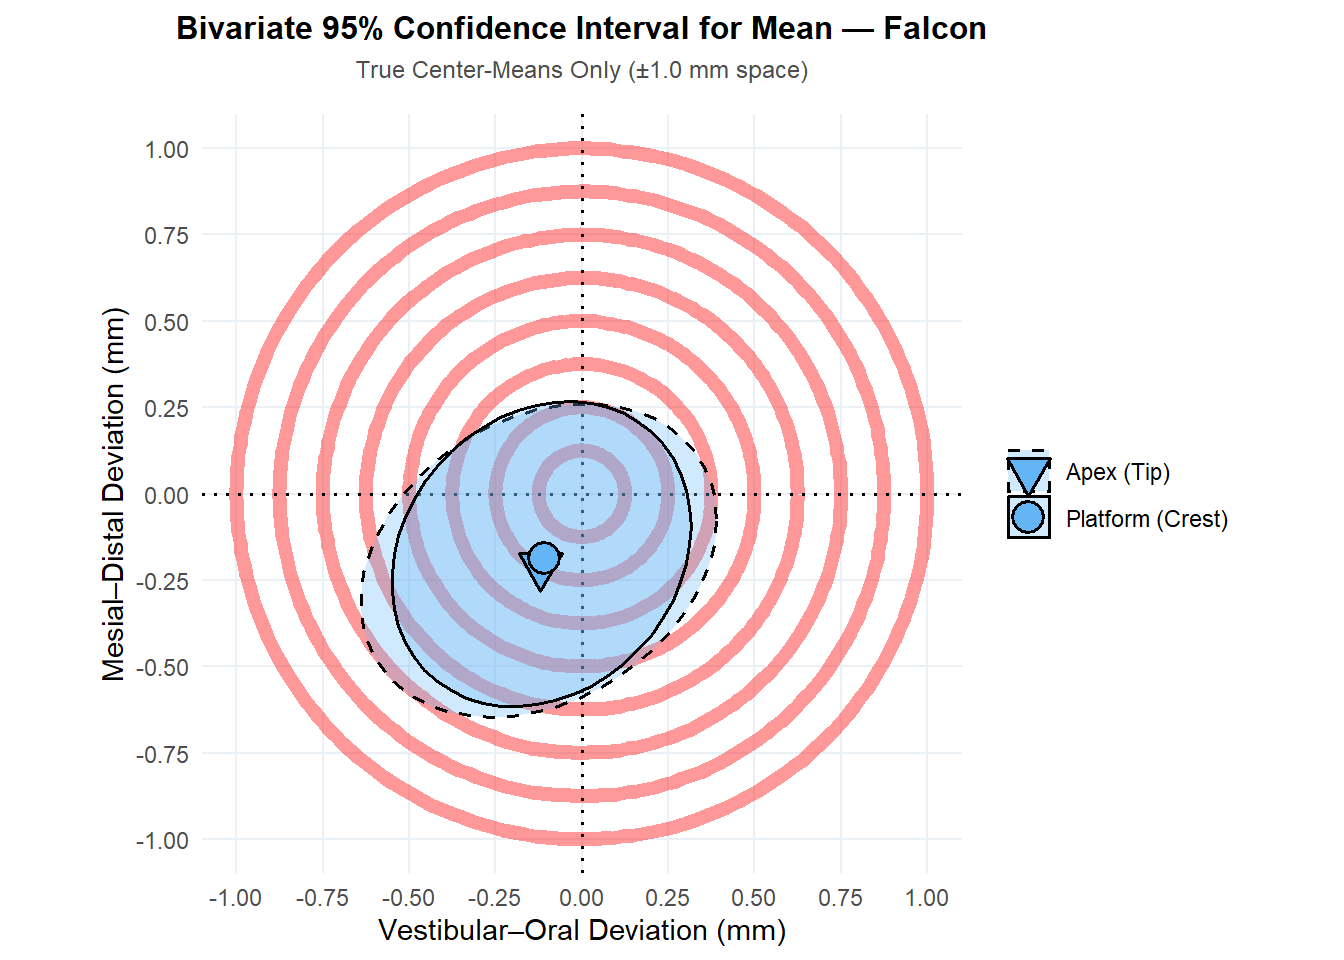
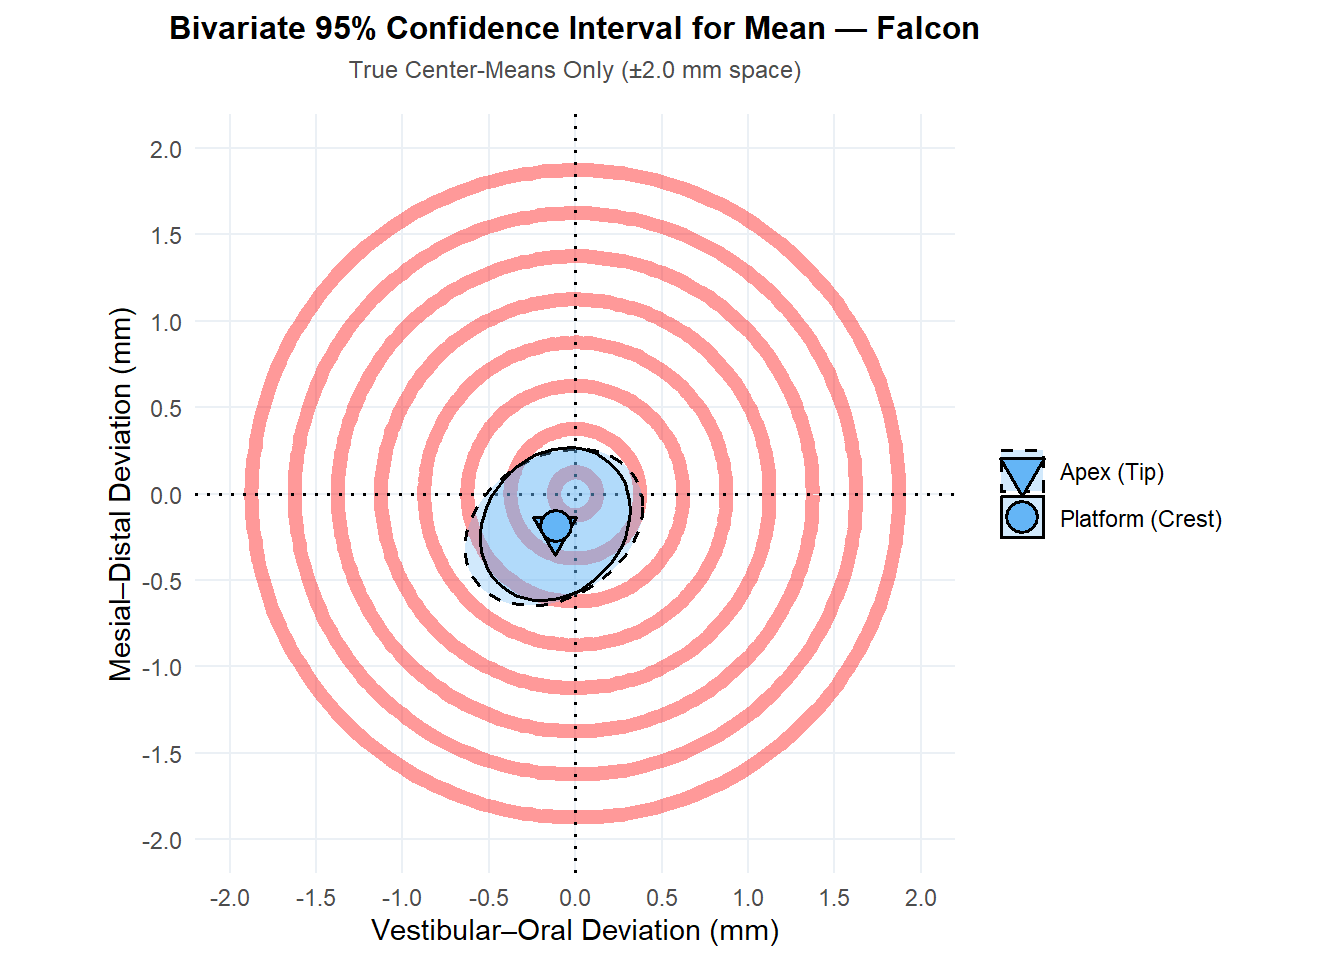
7/7/2026

diff --git a/docs/2026_0604_Arndt.html b/docs/2026_0604_Arndt.html
@@ -551,15 +551,15 @@ project makes it easier to run your code on other machines.</p>
 <div class="panel panel-default">
 <div class="panel-heading">
 <p class="panel-title">
-<a data-toggle="collapse" data-parent="#workflowr-checks" href="#strongRepositoryversionstrongahrefhttpsgithubcomhan16Collaborationstreeac765dc29695f18b5ec4ef464e8c79f7ba43b658targetblankac765dca">
+<a data-toggle="collapse" data-parent="#workflowr-checks" href="#strongRepositoryversionstrongahrefhttpsgithubcomhan16Collaborationstree10f1dbf4ef0765518d789ee79656959a1283892atargetblank10f1dbfa">
 <span class="glyphicon glyphicon-ok text-success"
 aria-hidden="true"></span> <strong>Repository version:</strong>
-<a href="https://github.com/han16/Collaborations/tree/ac765dc29695f18b5ec4ef464e8c79f7ba43b658" target="_blank">ac765dc</a>
+<a href="https://github.com/han16/Collaborations/tree/10f1dbf4ef0765518d789ee79656959a1283892a" target="_blank">10f1dbf</a>
 </a>
 </p>
 </div>
 <div
[2 lines of base64/hex data omitted]
 class="panel-collapse collapse">
 <div class="panel-body">
 <p>
@@ -569,7 +569,7 @@ reproducibility.
 </p>
 <p>
 The results in this page were generated with repository version
-<a href="https://github.com/han16/Collaborations/tree/ac765dc29695f18b5ec4ef464e8c79f7ba43b658" target="_blank">ac765dc</a>.
+<a href="https://github.com/han16/Collaborations/tree/10f1dbf4ef0765518d789ee79656959a1283892a" target="_blank">10f1dbf</a>.
 See the <em>Past versions</em> tab to see a history of the changes made
 to the R Markdown and HTML files.
 </p>
@@ -635,6 +635,40 @@ Message
 </tr>
 </thead>
 <tbody>
+<tr>
+<td>
+Rmd
+</td>
+<td>
+<a href="https://github.com/han16/Collaborations/blob/10f1dbf4ef0765518d789ee79656959a1283892a/analysis/2026_0604_Arndt.Rmd" target="_blank">10f1dbf</a>
+</td>
+<td>
+han
+</td>
+<td>
+2026-07-07
+</td>
+<td>
+7/7/2026
+</td>
+</tr>
+<tr>
+<td>
+html
+</td>
+<td>
+<a href="https://rawcdn.githack.com/han16/Collaborations/10f1dbf4ef0765518d789ee79656959a1283892a/docs/2026_0604_Arndt.html" target="_blank">10f1dbf</a>
+</td>
+<td>
+han
+</td>
+<td>
+2026-07-07
+</td>
+<td>
+7/7/2026
+</td>
+</tr>
 <tr>
 <td>
 Rmd
@@ -1177,7 +1211,7 @@ make_target_circle &lt;- function(r) {
     radius_group = as.character(r)
   )
 }
-target_rings &lt;- map_df(seq(0.125, 1.0, by = 0.125), make_target_circle)
+target_rings &lt;- map_df(seq(0.125, 2.0, by = 0.25), make_target_circle)
 
 
 # ==============================================================================
@@ -1242,14 +1276,14 @@ for (current_wf in unique_workflows) {
     scale_fill_manual(values = c(&quot;Platform (Crest)&quot; = &quot;#64B5F6&quot;, &quot;Apex (Tip)&quot; = &quot;#64B5F6&quot;)) + 
     
     # F. Coordinate Constraints set exactly to (-1, 1)
-    coord_fixed(xlim = c(-1.0, 1.0), ylim = c(-1.0, 1.0)) +
-    scale_x_continuous(breaks = seq(-1.0, 1.0, 0.25)) +
-    scale_y_continuous(breaks = seq(-1.0, 1.0, 0.25)) +
+    coord_fixed(xlim = c(-2.0, 2.0), ylim = c(-2.0, 2.0)) +
+    scale_x_continuous(breaks = seq(-2.0, 2.0, 0.5)) +
+    scale_y_continuous(breaks = seq(-2.0, 2.0, 0.5)) +
     
     # G. Axis / Legend Labels
     labs(
       title = paste(&quot;Bivariate 95% Confidence Interval for Mean —&quot;, wf_title_name),
-      subtitle = &quot;True Center-Means Only (±1.0 mm space)&quot;,
+      subtitle = &quot;True Center-Means Only (±2.0 mm space)&quot;,
       x = &quot;Vestibular–Oral Deviation (mm)&quot;,
       y = &quot;Mesial–Distal Deviation (mm)&quot;
     ) +
@@ -1275,10 +1309,121 @@ y-Mesial.Distal.Deviation.at.Tip</p></li>
 <pre class="r"><code># Display each plot element individually in your viewer console
 print(workflow_plots[[1]]) # Displays the first workflow category graph</code></pre>
 <p><img src="figure/2026_0604_Arndt.Rmd/unnamed-chunk-12-1.png" width="672" style="display: block; margin: auto;" /></p>
+<p>
+<button type="button" class="btn btn-default btn-xs btn-workflowr btn-workflowr-fig" data-toggle="collapse" data-target="#fig-unnamed-chunk-12-1">
+Past versions of unnamed-chunk-12-1.png
+</button>
+</p>
+<div id="fig-unnamed-chunk-12-1" class="collapse">
+<div class="table-responsive">
+<table class="table table-condensed table-hover">
+<thead>
+<tr>
+<th>
+Version
+</th>
+<th>
+Author
+</th>
+<th>
+Date
+</th>
+</tr>
+</thead>
+<tbody>
+<tr>
+<td>
+<a href="https://github.com/han16/Collaborations/blob/10f1dbf4ef0765518d789ee79656959a1283892a/docs/figure/2026_0604_Arndt.Rmd/unnamed-chunk-12-1.png" target="_blank">10f1dbf</a>
+</td>
+<td>
+han
+</td>
+<td>
+2026-07-07
+</td>
+</tr>
+</tbody>
+</table>
+</div>
+</div>
 <pre class="r"><code>print(workflow_plots[[2]]) # Displays the second workflow category graph</code></pre>
 <p><img src="figure/2026_0604_Arndt.Rmd/unnamed-chunk-12-2.png" width="672" style="display: block; margin: auto;" /></p>
+<p>
+<button type="button" class="btn btn-default btn-xs btn-workflowr btn-workflowr-fig" data-toggle="collapse" data-target="#fig-unnamed-chunk-12-2">
+Past versions of unnamed-chunk-12-2.png
+</button>
+</p>
+<div id="fig-unnamed-chunk-12-2" class="collapse">
+<div class="table-responsive">
+<table class="table table-condensed table-hover">
+<thead>
+<tr>
+<th>
+Version
+</th>
+<th>
+Author
+</th>
+<th>
+Date
+</th>
+</tr>
+</thead>
+<tbody>
+<tr>
+<td>
+<a href="https://github.com/han16/Collaborations/blob/10f1dbf4ef0765518d789ee79656959a1283892a/docs/figure/2026_0604_Arndt.Rmd/unnamed-chunk-12-2.png" target="_blank">10f1dbf</a>
+</td>
+<td>
+han
+</td>
+<td>
+2026-07-07
+</td>
+</tr>
+</tbody>
+</table>
+</div>
+</div>
 <pre class="r"><code>print(workflow_plots[[3]]) # Displays the third workflow category graph</code></pre>
 <p><img src="figure/2026_0604_Arndt.Rmd/unnamed-chunk-12-3.png" width="672" style="display: block; margin: auto;" /></p>
+<p>
+<button type="button" class="btn btn-default btn-xs btn-workflowr btn-workflowr-fig" data-toggle="collapse" data-target="#fig-unnamed-chunk-12-3">
+Past versions of unnamed-chunk-12-3.png
+</button>
+</p>
+<div id="fig-unnamed-chunk-12-3" class="collapse">
+<div class="table-responsive">
+<table class="table table-condensed table-hover">
+<thead>
+<tr>
+<th>
+Version
+</th>
+<th>
+Author
+</th>
+<th>
+Date
+</th>
+</tr>
+</thead>
+<tbody>
+<tr>
+<td>
+<a href="https://github.com/han16/Collaborations/blob/10f1dbf4ef0765518d789ee79656959a1283892a/docs/figure/2026_0604_Arndt.Rmd/unnamed-chunk-12-3.png" target="_blank">10f1dbf</a>
+</td>
+<td>
+han
+</td>
+<td>
+2026-07-07
+</td>
+</tr>
+</tbody>
+</table>
+</div>
+</div>
 <br>
 <p>
 <button type="button" class="btn btn-default btn-workflowr btn-workflowr-sessioninfo" data-toggle="collapse" data-target="#workflowr-sessioninfo" style="display: block;">
